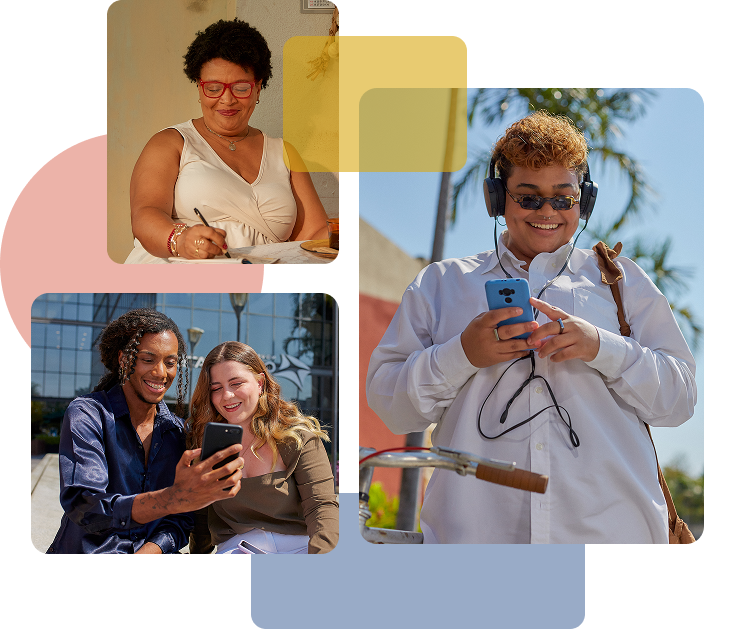
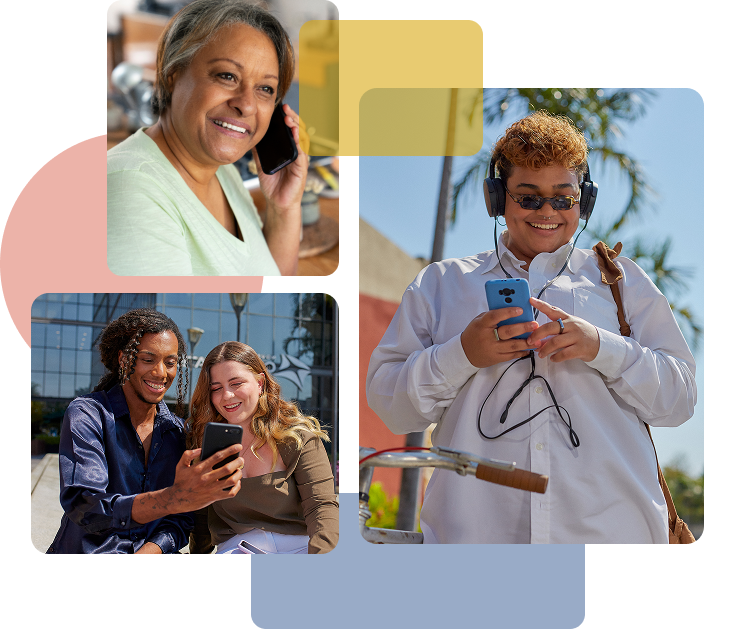
style: update landing design

Changed region(s): [[0.1243, 0.0, 0.6527, 0.4531]]

diff --git a/frontend/components/Hero.tsx b/frontend/components/Hero.tsx
@@ -9,8 +9,8 @@ export function Hero() {
     <section className="z-100 w-full h-screen bg-hero-bg bg-repeat flex items-center justify-between text-lg md:text-xl lg:text-4xl text-white px-2 md:px-5 lg:px-10 py-7 z-10">
       <Image src={landingImages} alt="landing background" className="w-full hidden lg:block" />
       <div className="flex flex-col items-end gap-4 lg:gap-5">
-        <span className="font-bold w-[80.5%] text-end text-xl lg:text-5xl text-primary">
-          Perdeu ou teve seu celular roubado? O <span className="text-white bg-primary rounded-lg px-2 py-0">Procura.AÍ</span>pode te ajudar
+        <span className="font-bold w-[76%] text-end text-xl lg:text-5xl text-primary leading-7">
+          Perdeu ou teve seu celular roubado? O <span className="text-white bg-primary rounded-lg px-1.5 pt-1 h-fit leading-snug">Procura.AÍ</span> pode te ajudar!
         </span>
         <span className="font-semibold lg:text-2xl break-words w-9/12 text-procura-ai-black text-end">
           Cadastre seus dispositivos e, se algo acontecer, acione as autoridades de forma rápida e segura. <br />

diff --git a/frontend/components/Features.tsx b/frontend/components/Features.tsx
@@ -1,4 +1,5 @@
 import Image from "next/image";
+import circlesLine from '../assets/images/circles-line.png'
 import shapesLeft from '../assets/images/shapes-left.svg'
 import shapesRight from '../assets/images/shapes-right.svg'
 import feat1 from '../assets/icons/feat1.svg'
@@ -15,7 +16,10 @@ export function Features() {
       <Image src={shapesLeft} alt="formas esquerda" className="absolute hidden md:block md:top-[900px] lg:top-96 2xl:top-[420px] left-0 z-0" />
       <Image src={shapesRight} alt="formas direita" className="absolute hidden md:block top-96 md:top-[700px] lg:top-[200px] right-0" />
 
-      <h1 className="text-4xl text-primary font-medium self-start ml-10">Veja como é fácil se proteger</h1>
+      <div className="flex flex-col w-full gap-2">
+        <h1 className="text-4xl text-primary font-medium self-center">Veja como é fácil se proteger</h1>
+        <Image src={circlesLine} alt="feat1" className="self-center" />
+      </div>
 
       <div className="flex lg:flex-wrap flex-col lg:flex-row gap-4">
         <div className="flex flex-col gap-2">
